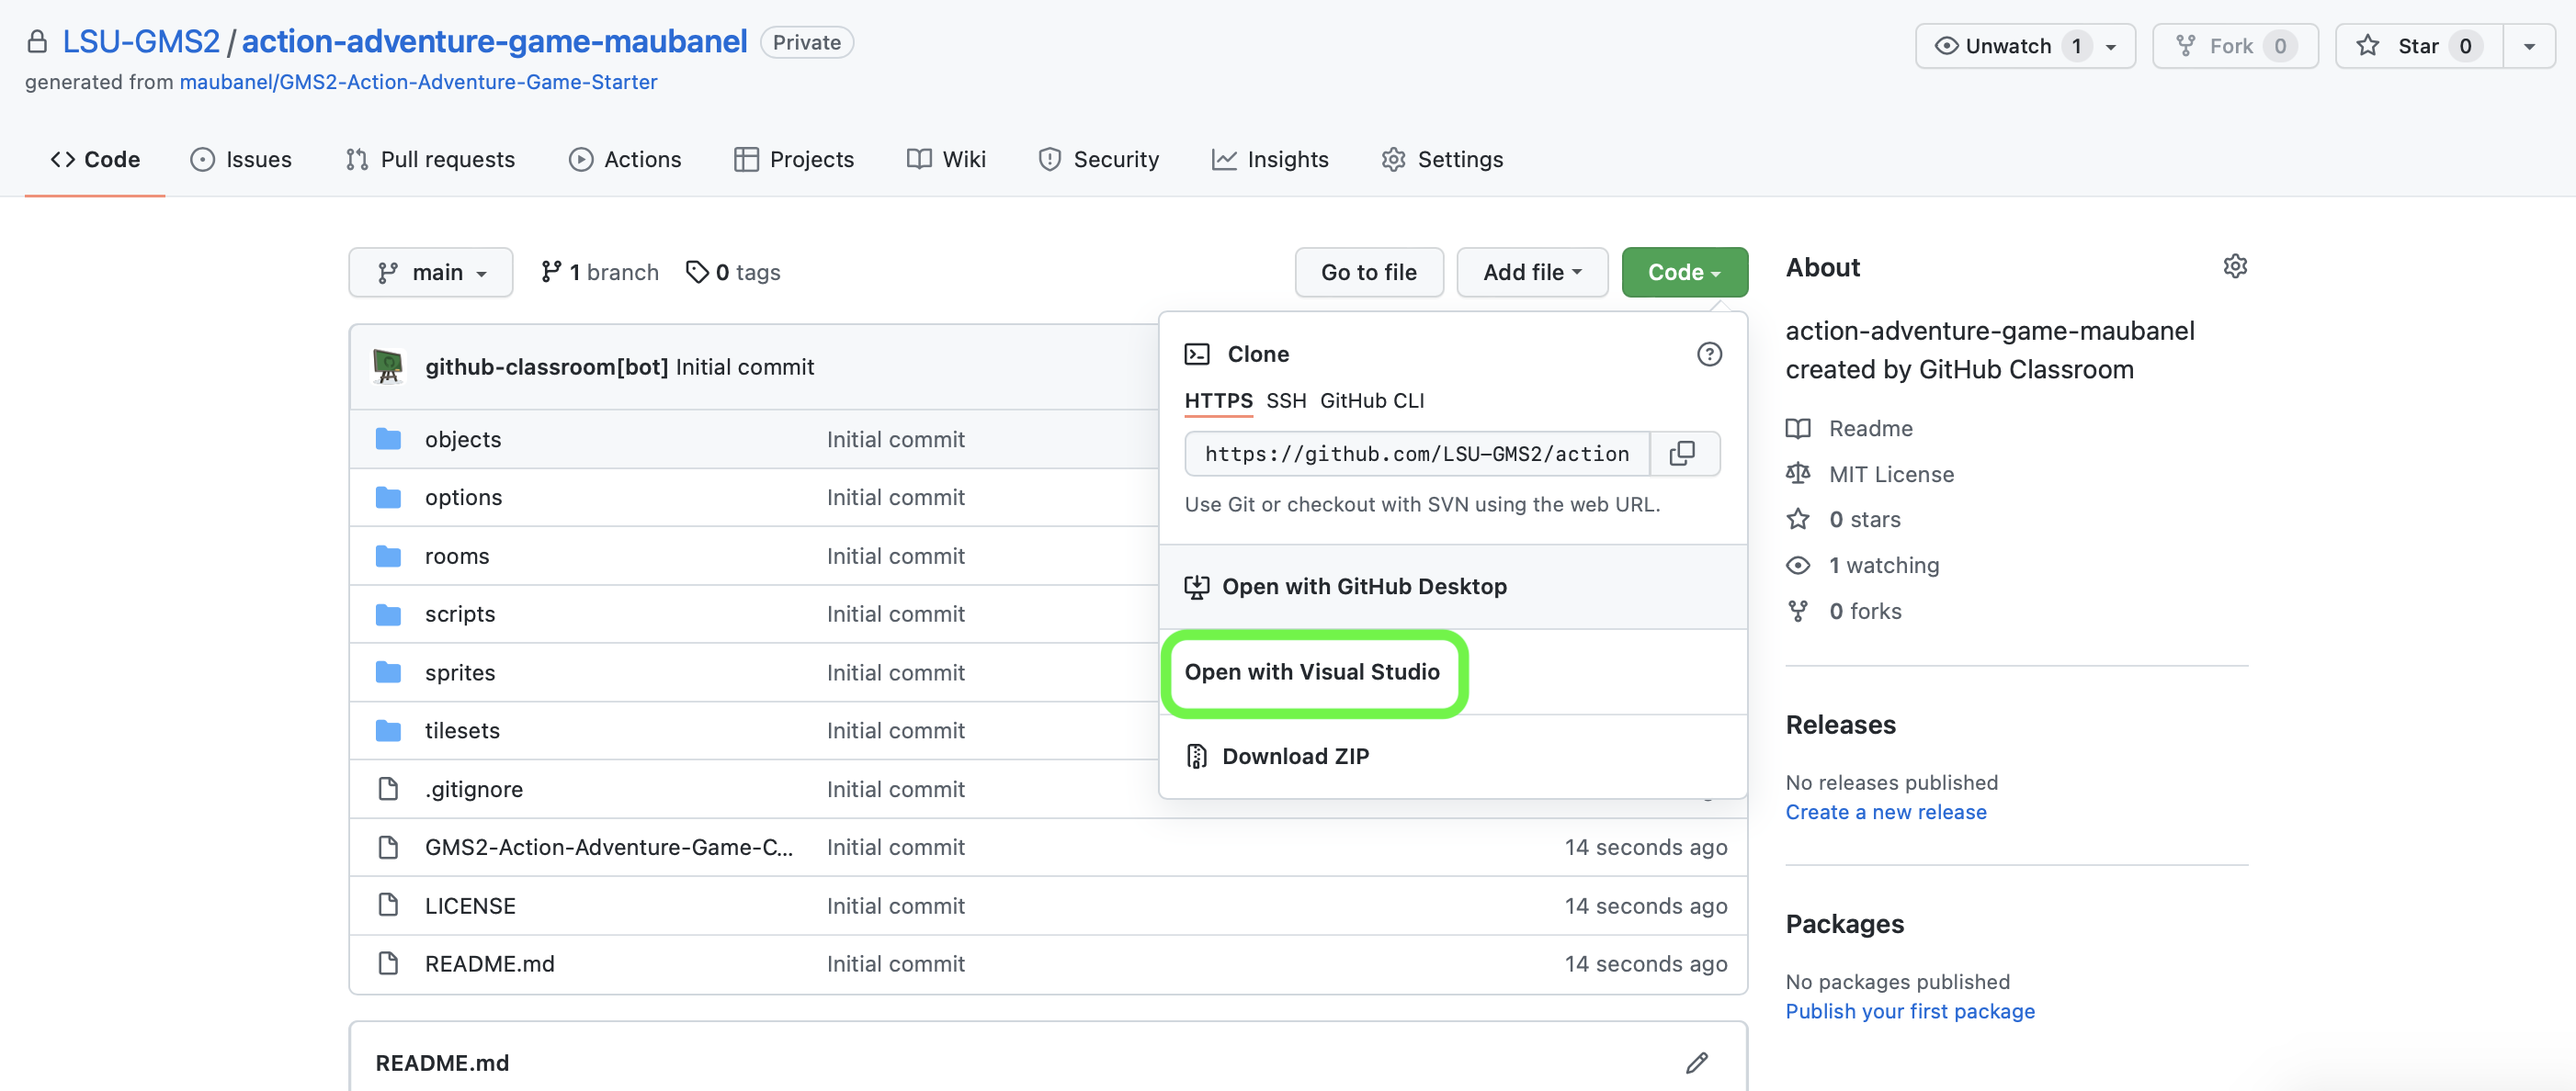
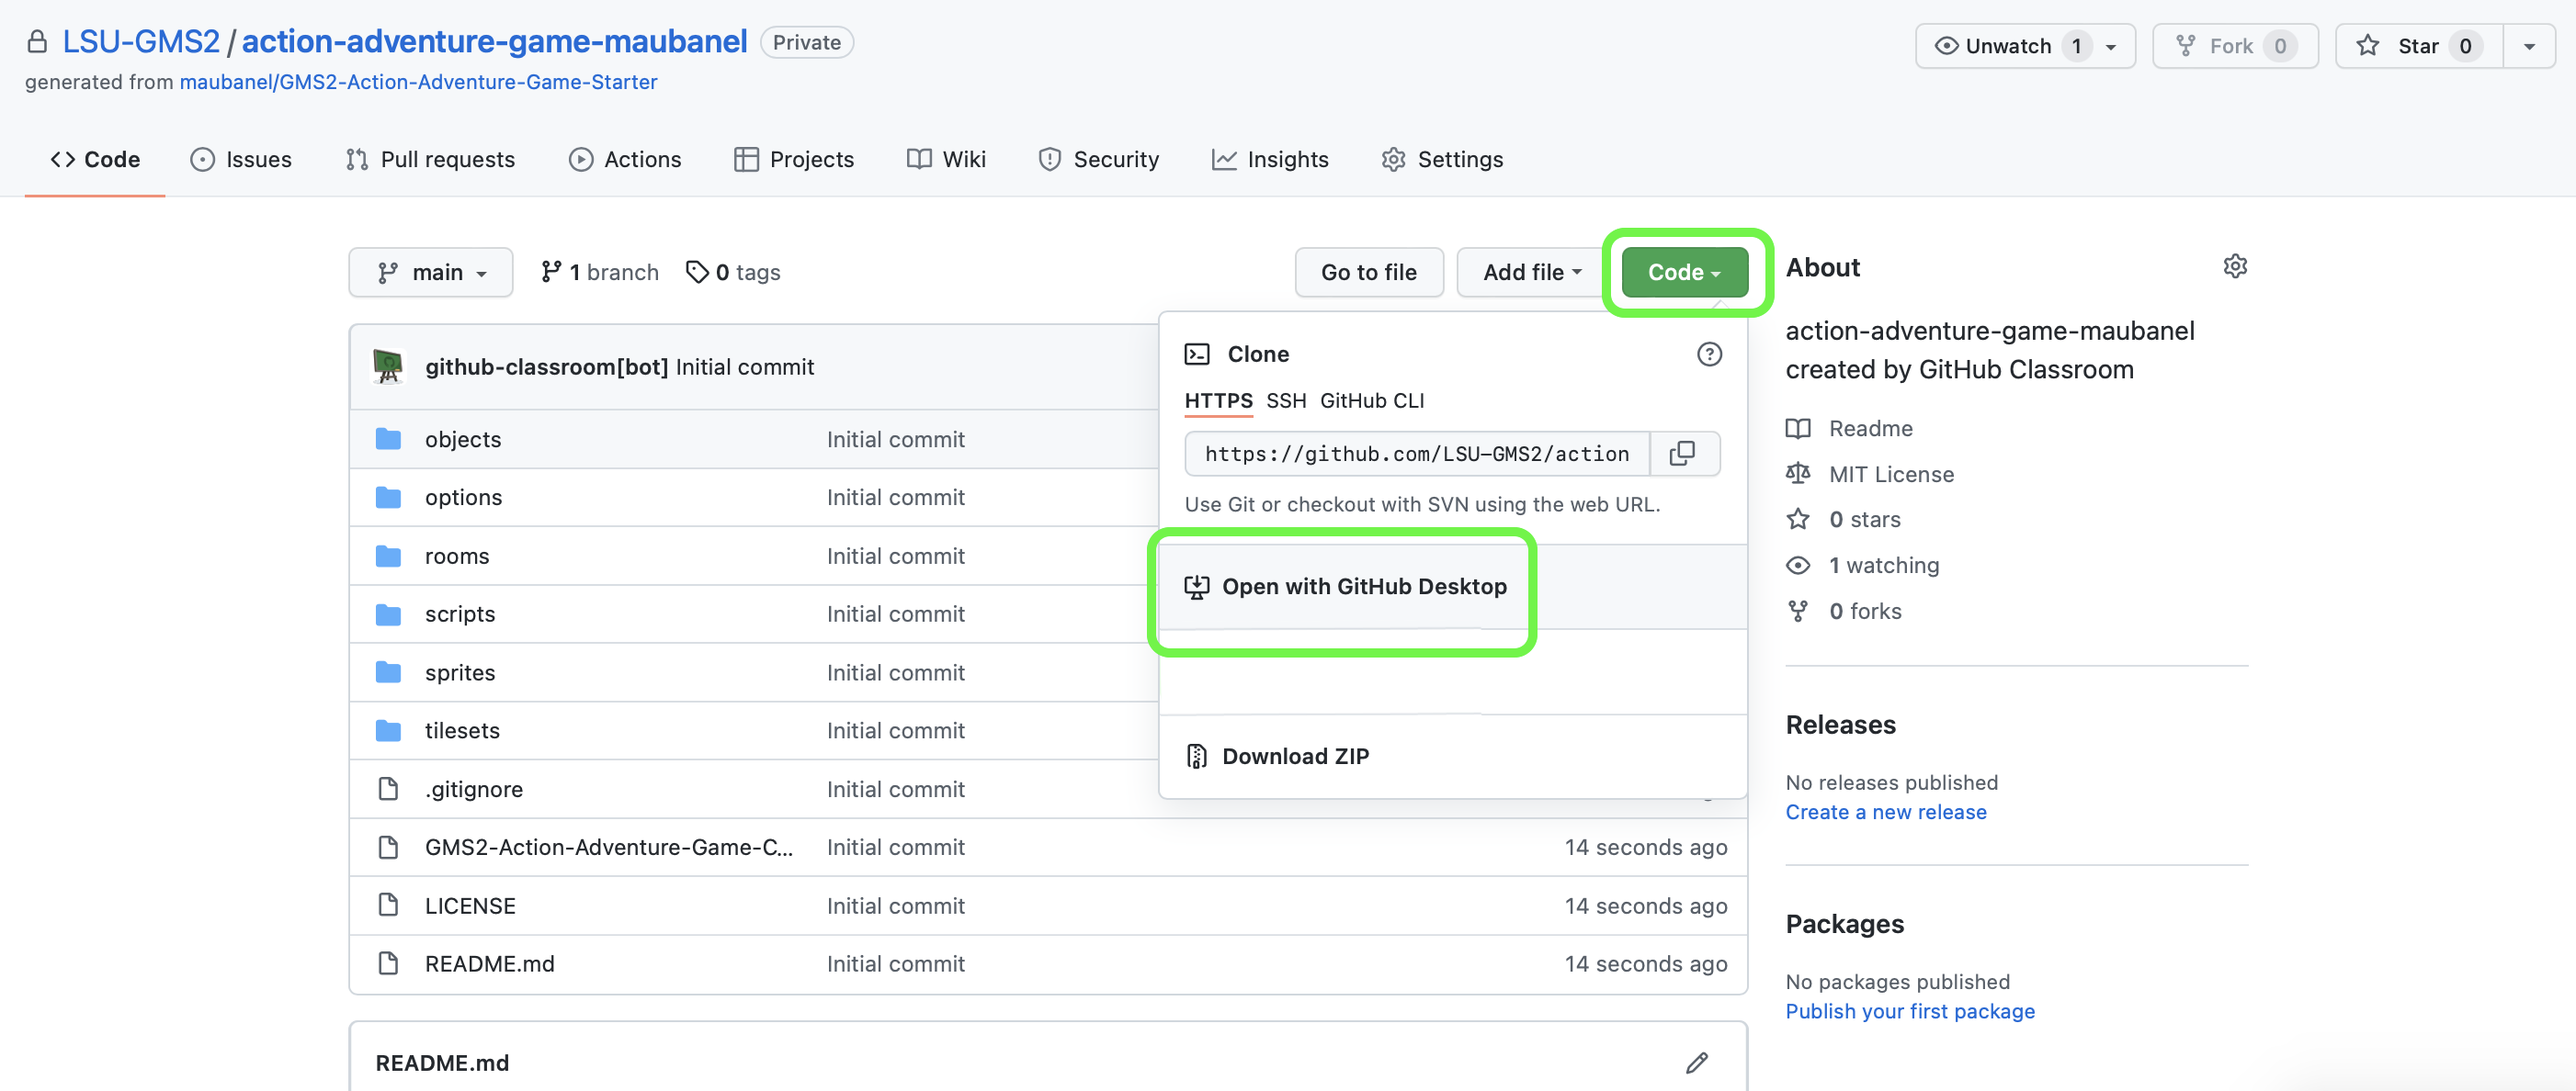
porting walk through

Changed region(s): [[0.4345, 0.4672, 0.6208, 0.6852], [0.6208, 0.1869, 0.6828, 0.3114], [0.6828, 0.218, 0.7139, 0.2803]]

diff --git a/setting-up/README.md b/setting-up/README.md
@@ -55,8 +55,9 @@ Select the <kbd>Code</kbd> button and select <kbd>Open With GitHub Desktop</kbd>
 
 ##### `Step 6.`\|`SPCRK`| :small_orange_diamond: :small_blue_diamond:
 
+**GitHub Desktop** opens up with the folder url ready to clone.  Select a folder to install the software to and press the <kbd>Clone</kbd> button.
 
-![alt_text](images/.png)
+![select directory then clone repository](images/cloneRepository.png)
 
 <img src="https://via.placeholder.com/500x2/45D7CA/45D7CA" alt="drawing" height="2px" alt = ""/>
 
